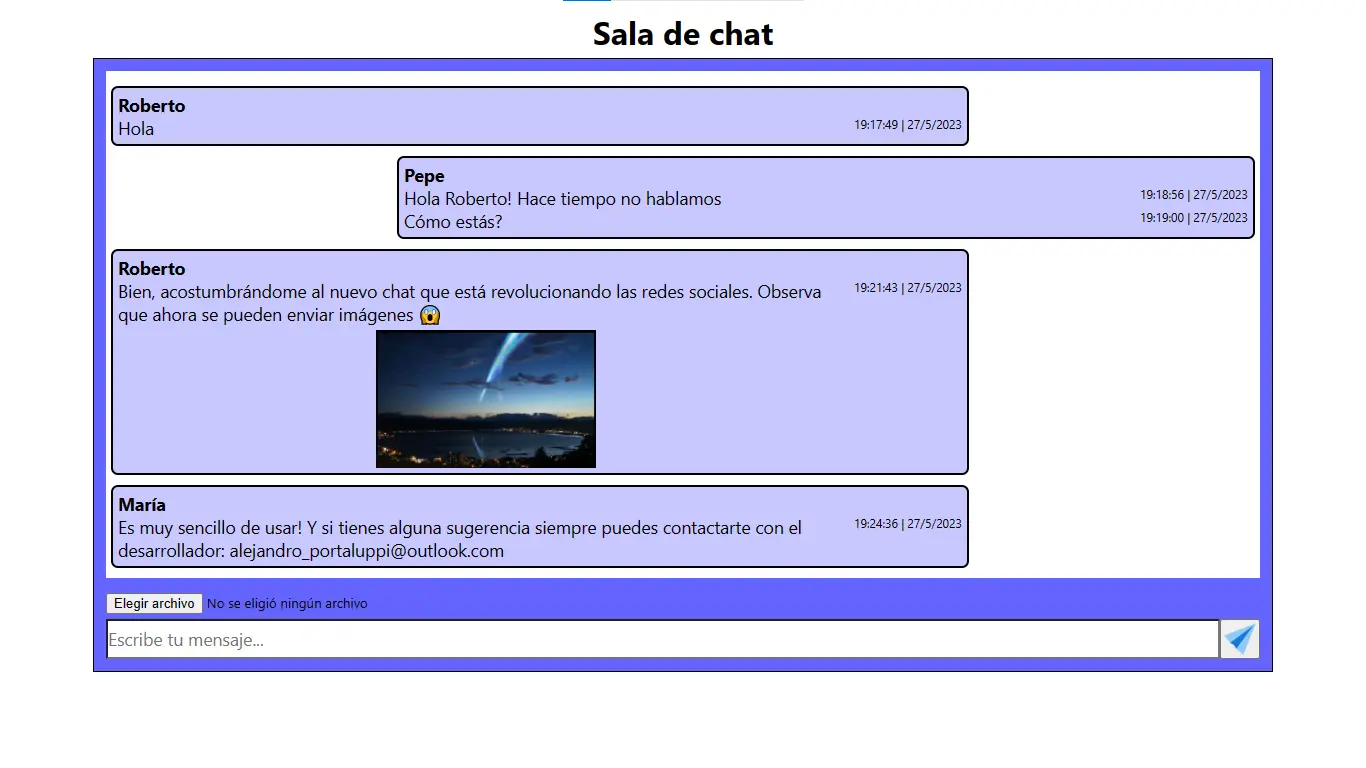
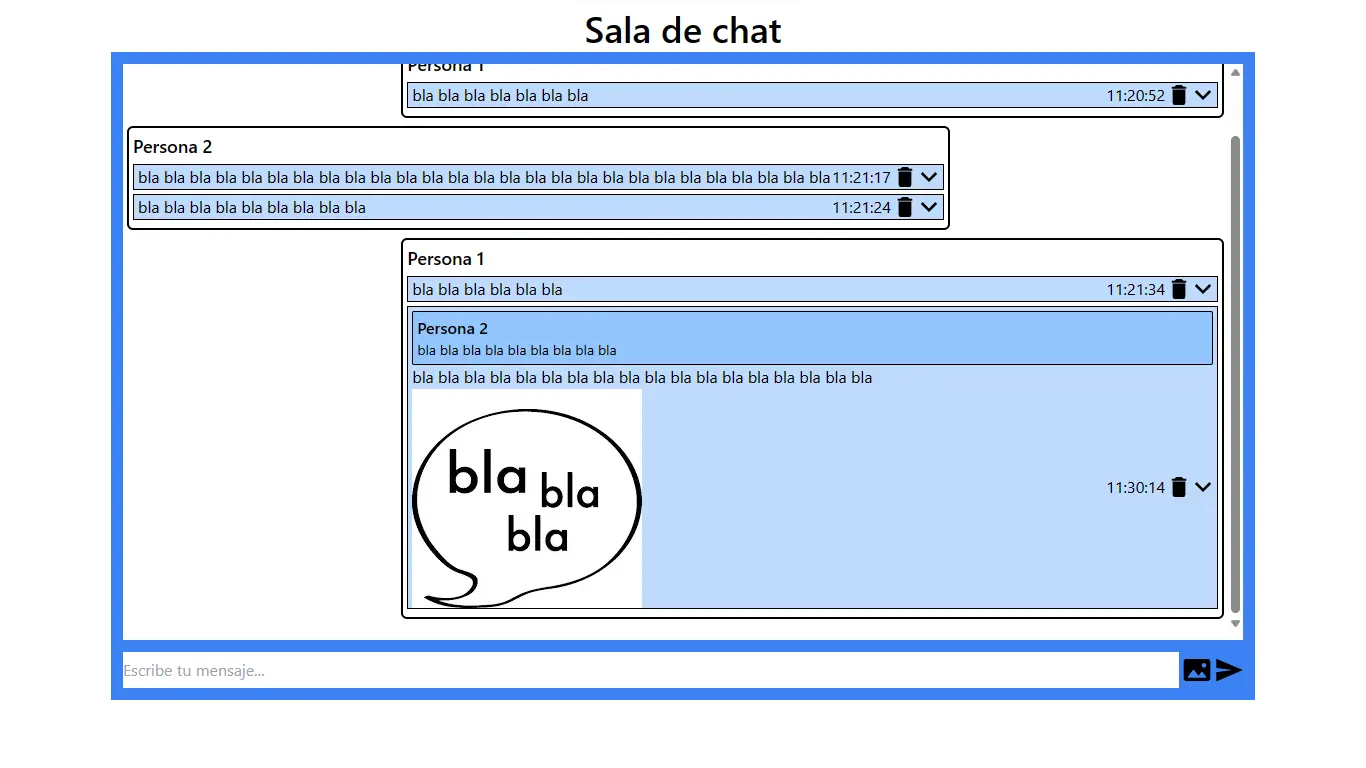
Mejoras menores

diff --git a/src/components/TableroPixelArt.tsx b/src/components/TableroPixelArt.tsx
@@ -10,15 +10,17 @@ interface TableroPixelArtProps {
     anchoEspacioVacio: number;
 }
 
+type Color = `rgb(${number}, ${number}, ${number})`
+
 const TableroPixelArt = ({ cantidadVerticalDeCuadraditos, cantidadHorizontalDeCuadraditos, frases, cantidadCuadraditosHorizontalesPorFrase, anchoEspacioVacio }: TableroPixelArtProps) => {   
     const [ montado, setMontado ] = useState(false);
 
     const filaIndices = deCeroAN(cantidadVerticalDeCuadraditos)
-    const colores = ["rgb(0, 0, 0)", "rgb(255, 0, 0)"]
+    const colores: Color[] = ["rgb(0, 0, 0)", "rgb(255, 0, 0)"]
     const tiempoDeVidaCuadradito = 5000 // Esta variable debe ser 10 veces más grande que la de abajo
     const tiempoDeVidaCuadraditoVerde = tiempoDeVidaCuadradito/10
 
-    const pintarCuadradito = (k: number, l: number, timeEnds: number, color: string) => { // Pinta el cuadradito con coordenadas (k, l)
+    const pintarCuadradito = (k: number, l: number, timeEnds: number, color: Color) => { // Pinta el cuadradito con coordenadas (k, l)
         for (let i=0; i<cantidadVerticalDeCuadraditos; i++) {
             for (let j=0; j<cantidadHorizontalDeCuadraditos; j++) {
                 if (i===l && j===k) { 
@@ -43,7 +45,7 @@ const TableroPixelArt = ({ cantidadVerticalDeCuadraditos, cantidadHorizontalDeCu
         }
     }
 
-    const pintarLetra = async (coordenadas: any[], dx: number, color: string) => { // Pinta una letra en las coordenadas de la letra indicada, según diga el arrayLetras y el espaciado horizontal dx indicado
+    const pintarLetra = async (coordenadas: any[], dx: number, color: Color) => { // Pinta una letra en las coordenadas de la letra indicada, según diga el arrayLetras y el espaciado horizontal dx indicado
         let contador = 0
         for (let i=0; i<cantidadVerticalDeCuadraditos; i++) {
             for (let j=0; j<cantidadHorizontalDeCuadraditos; j++) {
@@ -57,7 +59,7 @@ const TableroPixelArt = ({ cantidadVerticalDeCuadraditos, cantidadHorizontalDeCu
         }
     }
 
-    const pintarFrase = async (frase: string, color: string) => { // Necesito las coordenadas de cada letra y el color con el que se va a pintar
+    const pintarFrase = async (frase: string, color: Color) => { // Necesito las coordenadas de cada letra y el color con el que se va a pintar
         let j = 0
         while (true) {
             if (frases[j] !== frase) {
@@ -82,7 +84,7 @@ const TableroPixelArt = ({ cantidadVerticalDeCuadraditos, cantidadHorizontalDeCu
         }
     }
 
-    const animacionPintarFrase = async (frase: string, colores: string[]) => { // Pinta una frase varias veces con distintos colores
+    const animacionPintarFrase = async (frase: string, colores: Color[]) => { // Pinta una frase varias veces con distintos colores
         for (let i=0; i<colores.length; i++) {
             await pintarFrase(frase, colores[i])
             if (i!=colores.length-1) {
@@ -104,7 +106,7 @@ const TableroPixelArt = ({ cantidadVerticalDeCuadraditos, cantidadHorizontalDeCu
         }
     }
 
-    const animacion = async (frases: string[], colores: string[]) => { // Muestro todas las frases disponibles
+    const animacion = async (frases: string[], colores: Color[]) => { // Muestro todas las frases disponibles
         while (true) {
             for (let i=0; i<frases.length; i++) { 
                 const indiceRandom = Math.floor(Math.random()*frases.length)

diff --git a/src/components/Proyectos.tsx b/src/components/Proyectos.tsx
@@ -3,7 +3,6 @@ import proyectos from "../utils/proyectos"
 import { PersonalContext } from "./PersonalContext";
 import tippy from 'tippy.js';
 import 'tippy.js/dist/tippy.css';
-import Toastify from "toastify-js"
 
 const Proyectos = () => {
     const personalContext = useContext(PersonalContext);
@@ -34,51 +33,9 @@ const Proyectos = () => {
                 trigger: 'mouseenter focus',
             });
         })
-        
-        tippy(".tippyChat", {
-            content: `Debido al sitio gratuito donde está subido, la primera vez que entres vas a tener que esperar aproximadamente 15 segundos hasta que abra`,
-            placement: 'top',
-            arrow: true,
-            interactive: true,
-            delay: 0,
-            hideOnClick: false,
-            interactiveBorder: 10,
-            interactiveDebounce: 0,
-            moveTransition: '',
-            offset: [0, 15],
-            showOnCreate: false,
-            touch: ['hold', 500],
-            trigger: 'mouseenter focus',
-        });
 
         setProyectosMontado(true)
     }, );
-
-    interface proyectoProps {
-        titulo: string,
-        img: string,
-        linkGitHub: string,
-        linkSitio: string,
-        herramientas: string[]
-    }
-
-    const sinSitio = (proyecto: proyectoProps) => {
-        Toastify({
-            text: 'Lo siento, en este momento este sitio (Proyecto Full Stack) no está disponible en la web debido a que se requiere pagar por la base de datos que utiliza. Sin embargo puedes obtener una copia siguiendo las instrucciones que se encuentran en el código fuente haciendo clic aquí.',
-            duration: 10000,
-            destination: proyecto.linkGitHub,
-            newWindow: true,
-            close: false,
-            gravity: "top",
-            position: "right",
-            stopOnFocus: true,
-            style: {
-                background: "linear-gradient(to right, #00b09b, rgb(125, 125, 61))",
-                border: "2px solid black",
-                borderRadius: "2px"
-            }
-        }).showToast();
-    }
 
     return (
         <section className="scroolToProyectos border-l-2 border-blue-400 mt-14">
@@ -98,7 +55,7 @@ const Proyectos = () => {
                         </div>
                 
                         <div className="flex">
-                            <a href={proyecto.linkSitio} className={`py-[1px] w-1/2 h-full disabled px-3 text-center bg-blue-400 border-2 rounded-sm hover:bg-white hover:scale-105 hover:border-black ${proyecto.linkSitio.includes("chat") && "tippyChat"}`} target="_blank">Visitar</a>
+                            <a href={proyecto.linkSitio} className="py-[1px] w-1/2 h-full disabled px-3 text-center bg-blue-400 border-2 rounded-sm hover:bg-white hover:scale-105 hover:border-black" target="_blank">Visitar</a>
                             <a href={proyecto.linkGitHub} className="py-[1px] w-1/2 h-full px-3 text-center bg-blue-400 border-2 rounded-sm hover:bg-white hover:scale-105 hover:border-black" target="_blank">GitHub</a>
                         </div>
                     </div>

diff --git a/src/utils/proyectos.ts b/src/utils/proyectos.ts
@@ -4,7 +4,7 @@ const proyectos = [
         img: "./img/proyecto_full.webp",
         linkGitHub: "https://github.com/Ale6100/Curso-backend.git",
         linkSitio: "https://proyectocompleto.netlify.app/",
-        herramientas: ["CSS", "JavaScript", "NodeJS", "MongoDB", "ExpressJS", "Bycrypt", "Cors", "Dotenv", "EJS", "Jsonwebtoken", "Minimist", "Multer", "Nodemailer", "Stripe", "Swagger", "Winston", "ReactJS", "Tailwind", "Vite", "Moment", "Toastify"]
+        herramientas: ["CSS", "JavaScript", "TypeScript", "NodeJS", "MongoDB", "ExpressJS", "Bycrypt", "Cors", "Dotenv", "EJS", "Jsonwebtoken", "Minimist", "Multer", "Nodemailer", "Stripe", "Swagger", "Winston", "ReactJS", "Tailwind", "Vite", "Moment", "Toastify"]
     },
     {
         titulo: 'Juego "Buscagatos"',
@@ -38,8 +38,8 @@ const proyectos = [
         titulo: 'Sala de chat',
         img: "./img/salaDeChat.webp",
         linkGitHub: "https://github.com/Ale6100/Chat-js.git",
-        linkSitio: "https://chat-js-ale.onrender.com/",
-        herramientas: ["HTML", "CSS", "JavaScript", "MongoDB", "Socket.io", "Express", "NodeJS", "EJS", "Sweet Alert 2"]
+        linkSitio: "https://chat-ts.netlify.app/",
+        herramientas: ["CSS", "TypeScript", "JavaScript", "MongoDB", "Socket.io", "Express", "NodeJS", "EJS", "dotenv", "winston", "cors", "ReactJS", "Vite", "Tailwind", "Toastify", "Sweet Alert 2"]
     },
     {
         titulo: 'Asistente virtual',

diff --git a/src/utils/tecnologias.ts b/src/utils/tecnologias.ts
@@ -35,6 +35,13 @@ const tecnologias = [
         link: "https://www.javascript.com/"
     },
     {
+        title: "Typescript",
+        img: "https://img.icons8.com/color/100/null/typescript.png",
+        priority: true,
+        alt: "Typescript icon",
+        link: "https://www.typescriptlang.org/",
+    },
+    {
         title: "MongoDB",
         img: "https://img.icons8.com/color/100/null/mongodb.png",
         priority: true,
@@ -63,13 +70,6 @@ const tecnologias = [
         link: "https://nodejs.org/"
     },
     {
-        title: "Python",
-        img: "https://img.icons8.com/color/100/000000/python--v1.png",
-        priority: true,
-        alt: "Python icon",
-        link: "https://www.python.org/"
-    },
-    {
         title: "Git",
         img: "https://img.icons8.com/color/100/null/git.png",
         priority: true,
@@ -84,11 +84,11 @@ const tecnologias = [
         link: "https://github.com/"
     },
     {
-        title: "Typescript",
-        img: "https://img.icons8.com/color/100/null/typescript.png",
+        title: "Python",
+        img: "https://img.icons8.com/color/100/000000/python--v1.png",
         priority: false,
-        alt: "Typescript icon",
-        link: "https://www.typescriptlang.org/",
+        alt: "Python icon",
+        link: "https://www.python.org/"
     },
     {
         title: "Vite",

diff --git a/src/components/Contacto.tsx b/src/components/Contacto.tsx
@@ -24,15 +24,18 @@ const Contacto = () => {
         e.preventDefault()
         
         const formTarget = e.target as HTMLFormElement;
-        const buttonSubmit = formTarget.elements.namedItem("submit") as HTMLInputElement;
+        const buttonSubmit = formTarget.elements.namedItem("submit")
+
+        if (!(buttonSubmit instanceof HTMLButtonElement)) return null
+
         const form = new FormData(formTarget)
         
         const obj: { [key: string]: string } = {};
         form.forEach((value: FormDataEntryValue, key: string) => obj[key] = superTrim(value as string))
-
+        
         Toastify({
             text: "Espere por favor...",
-            duration: 3000,
+            duration: 6000,
             close: true,
             gravity: "top",
             position: "right",
@@ -77,7 +80,7 @@ const Contacto = () => {
                 position: "right",
                 stopOnFocus: true,
                 style: {
-                    background: "linear-gradient(to right, rgb(100, 100, 100), rgb(200, 200, 200))",
+                    background: "linear-gradient(to right, rgb(100, 100, 100), rgba(125, 125, 125, 0.9))",
                 }
             }).showToast();
         }, 6000);
